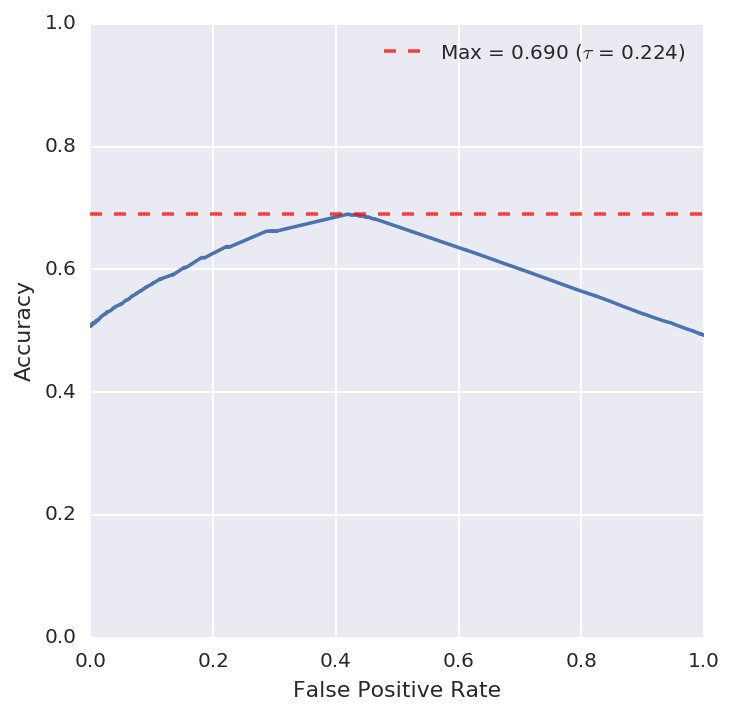
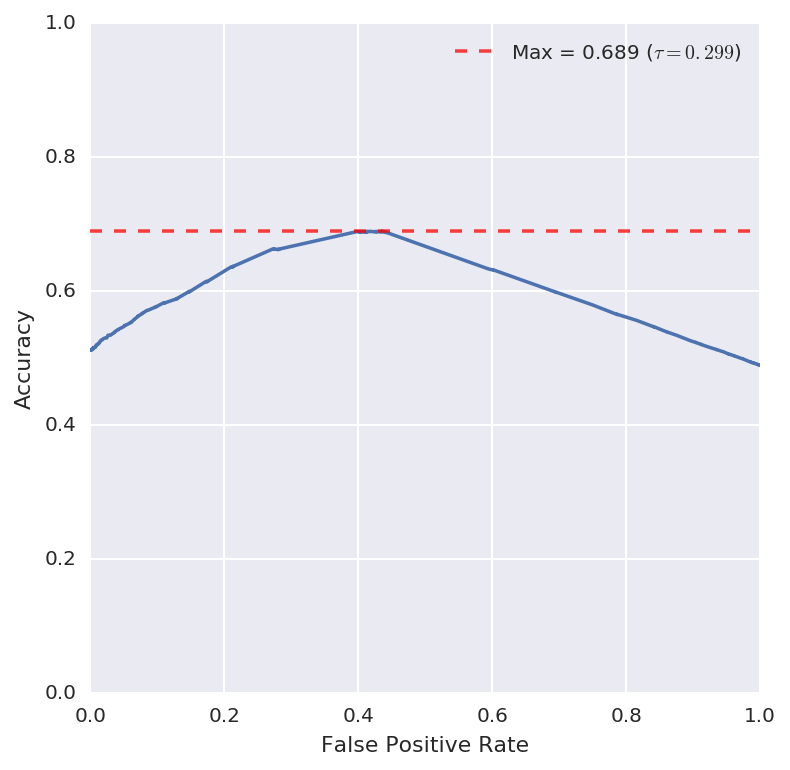
Adding new Thetas.

diff --git a/Tesis/results.tex b/Tesis/results.tex
@@ -158,9 +158,9 @@ The \emph{Bayesian Algorithm} will be ran for every $\varpi \in \left\{ \contact
 
 When $\varpi = \calls$ and the data is analyzed using $\Upsilon^{\calls}$ as \emph{Testing Set}, the \emph{Inverse Cumulative Distribution Function} has several peaks containing groups of users with similar amount of calls, and the data has a significant bias towards calls towards calls to \emph{Low Income} users.
 
-After analyszing the data, we find that the \emph{Area Under the Curve} using this method is of \num{0.721}, which is significantly higher than all the naïve and \emph{Machine Learning} methods presented in the later Section~\ref{sec:comparison}.
+After analyszing the data, we find that the \emph{Area Under the Curve} using this method is of \num{0.724}, which is significantly higher than all the naïve and \emph{Machine Learning} methods presented in the later Section~\ref{sec:comparison}.
 
-To maximize accuracy, setting $\tau = 0.224$ results in a predictor where $\Accuracy = 0.684$ and $\FPR = 123$. Additionally, that value of $\tau$ results in $\Precision = 123$, $\Recall = 123$, $F_1 = 123$, and $F_4 = 123$. \todo{Fill these values.}
+To maximize accuracy, setting $\tau = 0.654$ results in a predictor where $\Accuracy = 0.687$ and $\FPR = 123$. Additionally, that value of $\tau$ results in $\Precision = 123$, $\Recall = 123$, $F_1 = 123$, and $F_4 = 123$. \todo{Fill these values.}
 
 \subsubsection{Inferring by Time}
 \label{subsec:time_infer}
@@ -173,7 +173,7 @@ To maximize accuracy, setting $\tau = 0.224$ results in a predictor where $\Accu
 
 When $\varpi = \etime$ and the data is analyzed using $\Upsilon^{\calls}$ as \emph{Testing Set}, there are two big clusters of data at the edges. The reason for these is that, as shown by Figure~\ref{fig:timeheatmap}, the majority of users only call either \emph{High Income} or \emph{Low Income} users. For completeness sake, this test is run again in Section~\ref{fig:time_infer_positive} only for the subset $\hat{\Upsilon}^{\calls} \subseteq \Upsilon^{\calls}$ which have at least one call to users of each income category; however, while this makes the histogram more equitative taking out the users with SMS to both categories (whose users tend to be in that same category) makes all the metrics lower.
 
-The \emph{Area Under the Curve} of this inference mechanism is $\AUC = 0.719$, which is lower than the one for the calls in Section~\ref{subsec:call_infer}. The \emph{Accuracy Curve} is unsurprisingly similar to that one, and even the \emph{Accuracy} at $\tau = 0.721$ is the same. This is probably a result of using the same dataset as that section, and the fact that there is an obvious correlation between total talking time and total calls, shown in Figure~\ref{fig:call_time}.
+The \emph{Area Under the Curve} of this inference mechanism is $\AUC = 0.718$, which is lower than the one for the calls in Section~\ref{subsec:calls_infer}. The \emph{Accuracy Curve} is unsurprisingly similar to that one, and even the \emph{Accuracy} at $\tau = 0.722$ is the same. This is probably a result of using the same dataset as that section, and the fact that there is an obvious correlation between total talking time and total calls, shown in Figure~\ref{fig:call_time}.
 
 That value of $\tau$ also results in a predictor where $\Accuracy = 0.684$, $\FPR = 123$, $\Precision = 123$, $\Recall = 123$, $F_1 = 123$, and $F_4 = 123$. \todo{Fill these values.}
 
@@ -188,7 +188,7 @@ That value of $\tau$ also results in a predictor where $\Accuracy = 0.684$, $\FP
 
 Since the total amount of SMS is much lower than the amount of calls, the peaks of the result of the \emph{Inverse Cumulative Functions} of the \emph{Beta Distribution} applied on $\Upsilon^{\sms}$ that happen with the majority of users that have few of both are located closer to the center than in Section~\ref{subsec:call_infer} and Section~\ref{subsec:time_infer}. This makes some interesting cases if $\varpi = \sms$ is chosen, since the distribution is different than in the other cases.
 
-In particular, this gives an $\AUC = 0.715$, which is lower than both in the case of \emph{Calls} and \emph{Time}. Interesingly, the maximum \emph{Accuracy} at $\tau = 0.224$ is slightly higher than both of the other cases; this is probably a side-effect of the fact that $\left| \Upsilon^{\sms} \right| < \left| \Upsilon^{\calls} \right|$.
+In particular, this gives an $\AUC = 0.715$, which is lower than both in the case of \emph{Calls} and \emph{Time}. Interesingly, the maximum \emph{Accuracy} at $\tau = 0.299$ is slightly higher than both of the other cases; this is probably a side-effect of the fact that $\left| \Upsilon^{\sms} \right| < \left| \Upsilon^{\calls} \right|$.
 
 Additionally, $\FPR = 123$, $\Precision = 123$, $\Recall = 123$, $F_1 = 123$, and $F_4 = 123$. \todo{Fill these values.}
 
@@ -203,7 +203,7 @@ Additionally, $\FPR = 123$, $\Precision = 123$, $\Recall = 123$, $F_1 = 123$, an
 
 When $\varpi = \contacts$ it's possible to get a pattern similar to the one shown in Section~\ref{subsec:sms_infer} when $\varpi = \sms$, where the majority of users have relatively few contacts and the peaks in the histogram. Additionally, since the total amount of contacts is logarithmically distributed (as shown in Figure~\ref{fig:contact_distribution}), and people with \emph{High Income} tend to have more contacts in general, there peaks are clustered in areas with low $p_v$ (where the majority of calls are made to \emph{Low Income} users), near the middle (where the calls are mostly equally distributed), but not at high $p_v$; this last section would belong to the few users with many calls to \emph{High Income} users.
 
-Using this method it's possible to find that $\AUC = 0.742$, which is higher than all the other methods presented in Section~\ref{subsec:algorithm_performance}. Additionally, when selecting $\tau = 0.224$, $\Accuracy = 0.691$ which is higher than the maximum \emph{Accuracy} in all other methods. These metrics, combined with the fact that $\Upsilon$ contains every user in the \emph{Testing Set}, result in the fact that $\varpi = \contacts$ is uambiguously the best way to classify the data for the algorithm. Additionally, $\FPR = 123$, $\Precision = 123$, $\Recall = 123$, $F_1 = 123$, and $F_4 = 123$.
+Using this method it's possible to find that $\AUC = 0.746$, which is higher than all the other methods presented in Section~\ref{subsec:algorithm_performance}. Additionally, when selecting $\tau = 0.514$, $\Accuracy = 0.694$ which is higher than the maximum \emph{Accuracy} in all other methods. These metrics, combined with the fact that $\Upsilon$ contains every user in the \emph{Testing Set}, result in the fact that $\varpi = \contacts$ is uambiguously the best way to classify the data for the algorithm. Additionally, $\FPR = 123$, $\Precision = 123$, $\Recall = 123$, $F_1 = 123$, and $F_4 = 123$.
 
 \subsection{Algorithm Performance of Users with at least 3 Contacts}
 
